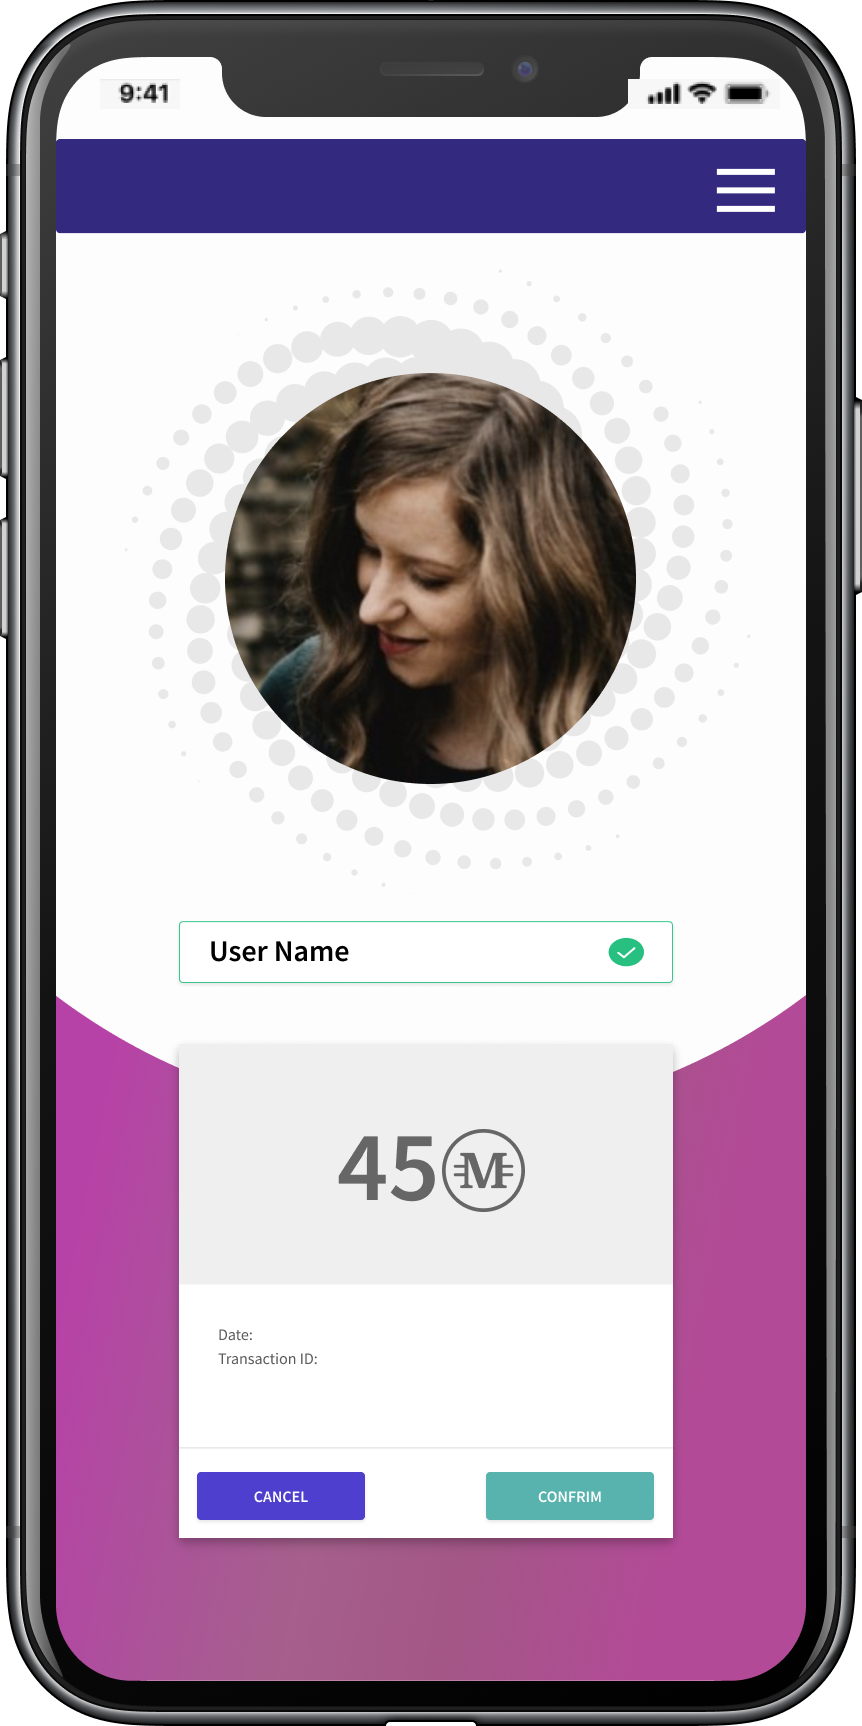
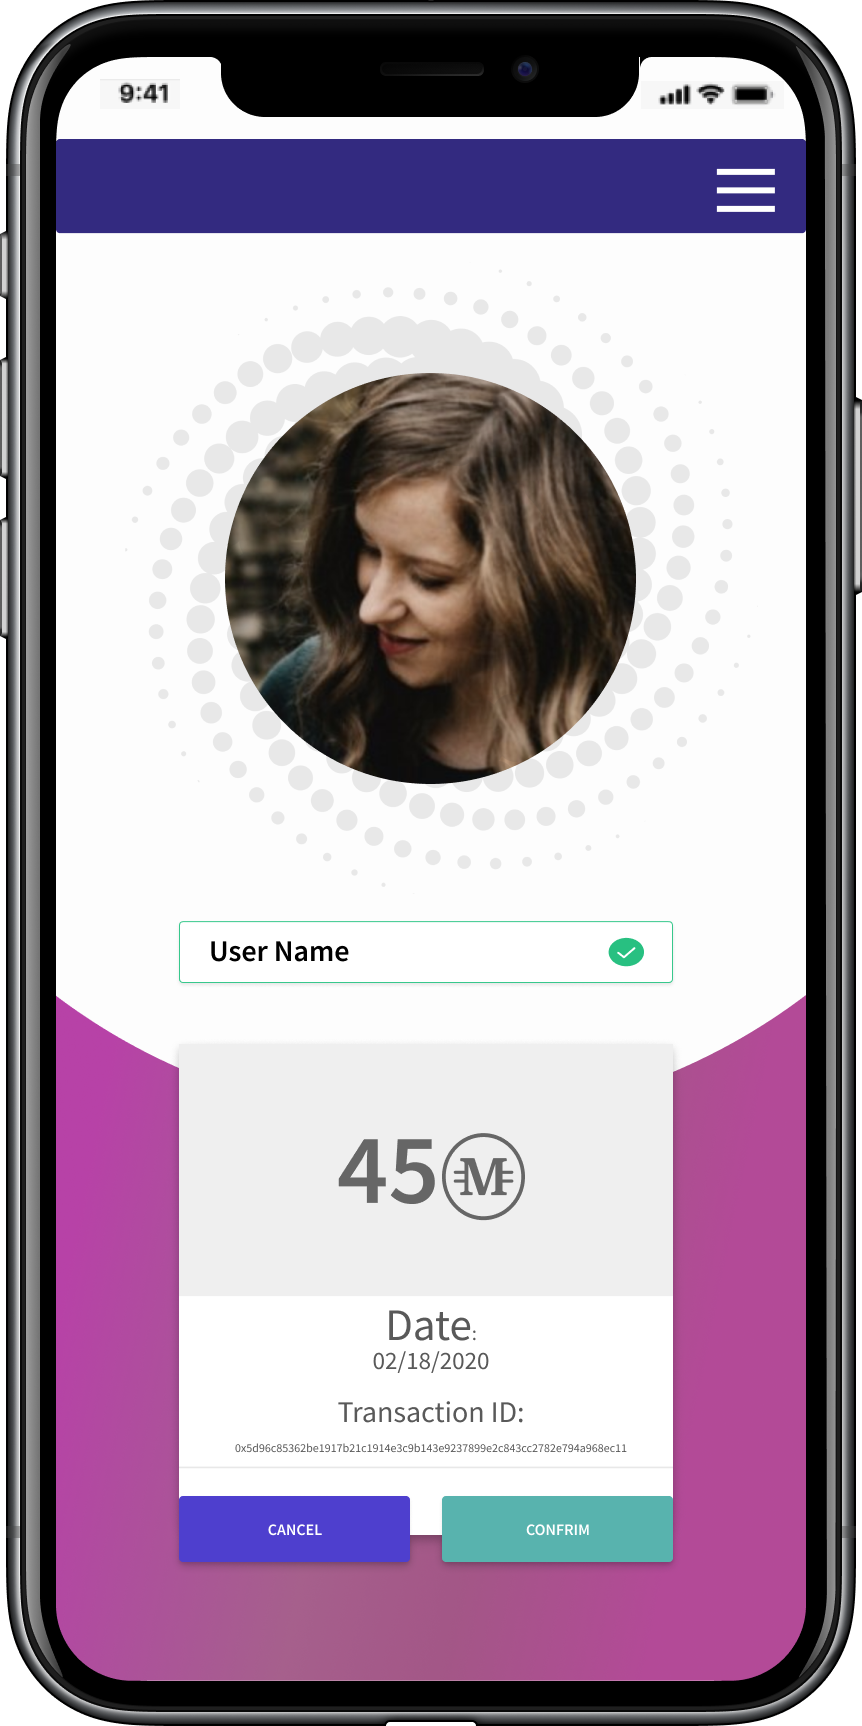
add mobile renderings

diff --git a/src/assets/scss/layout/_bg.scss b/src/assets/scss/layout/_bg.scss
@@ -6,63 +6,71 @@
 
 /* BG */
 
-	#bg {
-		@include vendor('transform', 'scale(1.0)');
-		-webkit-backface-visibility: hidden;
-		position: fixed;
-		top: 0;
-		left: 0;
-		width: 100%;
-		height: 100vh;
-		z-index: 1;
+#bg {
+  @include vendor('transform', 'scale(1.0)');
+  -webkit-backface-visibility: hidden;
+  position: fixed;
+  top: 0;
+  left: 0;
+  width: 100%;
+  height: 100vh;
+  z-index: 1;
 
-		&:before, &:after {
-			content: '';
-			display: block;
-			position: absolute;
-			top: 0;
-			left: 0;
-			width: 100%;
-			height: 100%;
-		}
+  &:before,
+  &:after {
+    content: '';
+    display: block;
+    position: absolute;
+    top: 0;
+    left: 0;
+    width: 100%;
+    height: 100%;
+  }
 
-		&:before {
-			@include vendor('transition', 'background-color #{_duration(bg)} ease-in-out');
-			@include vendor('transition-delay', '#{_duration(intro)}');
-			background-image:		linear-gradient(to top, #{_palette(bg-overlay)}, #{_palette(bg-overlay)}),
-									url('../../images/overlay.png');
-			background-size:		auto,
-									256px 256px;
-			background-position:	center,
-									center;
-			background-repeat:		no-repeat,
-									repeat;
-			z-index: 2;
-		}
+  &:before {
+    @include vendor(
+      'transition',
+      'background-color #{_duration(bg)} ease-in-out'
+    );
+    @include vendor('transition-delay', '#{_duration(intro)}');
+    background-image: linear-gradient(
+        to top,
+        #{_palette(bg-overlay)},
+        #{_palette(bg-overlay)}
+      ),
+      url('../../images/overlay.png');
+    background-size: auto, 256px 256px;
+    background-position: center, center;
+    background-repeat: no-repeat, repeat;
+    z-index: 2;
+  }
 
-		&:after {
-			@include vendor('transform', 'scale(1.125)');
-			@include vendor('transition', (
-				'transform #{_duration(article)} ease-in-out',
-				'filter #{_duration(article)} ease-in-out'
-			));
-			background-image:		url('../../images/g_gb.gif');
-			background-position:	center;
-			background-size:		cover;
-			background-repeat:		no-repeat;
-			z-index: 1;
-		}
+  &:after {
+    @include vendor('transform', 'scale(1.125)');
+    @include vendor(
+      'transition',
+      (
+        'transform #{_duration(article)} ease-in-out',
+        'filter #{_duration(article)} ease-in-out'
+      )
+    );
+    // background-image:		url('../../images/g_gb.gif');
+    background-position: center;
+    background-size: cover;
+    background-repeat: no-repeat;
+    z-index: 1;
+  }
 
-		.body.is-article-visible & {
-			&:after {
-				@include vendor('transform', 'scale(1.0825)');
-				@include vendor('filter', 'blur(0.2rem)');
-			}
-		}
+  .body.is-article-visible & {
+    &:after {
+      @include vendor('transform', 'scale(1.0825)');
+      @include vendor('filter', 'blur(0.2rem)');
+    }
+  }
 
-		.body.is-loading & {
-			&:before {
-				background-color:	_palette(bg-alt);
-			}
-		}
-	}
+  .body.is-loading & {
+    &:before {
+      background-color: _palette(bg-alt);
+    }
+  }
+}

diff --git a/src/components/Main.js b/src/components/Main.js
@@ -1,5 +1,6 @@
 import React from 'react'
 import PropTypes from 'prop-types'
+// import { Header } from 'Header.js'
 // import pic01 from '../images/pic01.jpg'
 // import pic02 from '../images/pic02.jpg'
 // import pic03 from '../images/pic03.jpg'
@@ -20,6 +21,7 @@ import rKey from '../images/verify_key.png'
 import rDash from '../images/r_dashboard.png'
 import rIntro from '../images/r_intro.png'
 import r_mobile from '../images/r_mobile.png'
+import r_mobile_l from '../images/r_mobile_l.png'
 class Main extends React.Component {
   render() {
     let close = (
@@ -44,6 +46,8 @@ class Main extends React.Component {
           }`}
           style={{ display: 'none' }}
         >
+          {' '}
+          {/* <Header></Header> */}
           <h2 className="major">About</h2>
           <span className="image main">
             <img src={pic04} alt="" />
@@ -285,11 +289,12 @@ class Main extends React.Component {
               {/* <img src={r_mobile} alt="" /> */}
             </span>
           </div>
-          <div className="mobile_container">
-            <span className="image main mobile">
+          {/* <div className="mobile_container">
+            <div className="image main mobile">
               <img src={r_mobile} alt="" />
-            </span>
-          </div>
+              <img src={r_mobile_l} alt="" />
+            </div>
+          </div> */}
           {close}
         </article>
         <article

diff --git a/src/assets/scss/components/_image.scss b/src/assets/scss/components/_image.scss
@@ -87,17 +87,22 @@
 }
 
 .mobile_container {
-  //   border: 5px solid blue;
-  width: 350px;
-  //   height: 300;
+  border: 5px solid red;
   display: flex;
-  justify-content: center;
-  margin-left: 25%;
+  flex-wrap: wrap;
+  //   border: 5px solid blue;
+  width: 100%;
+  //   height: 300;
+  //   margin-left: 30%;
 }
 
 .mobile {
+  width: 45%;
+  border: 3px solid lime;
+  display: flex;
+  flex-wrap: wrap;
+
   //   border: 1px solid red;
-  width: 100%;
-  height: auto;
+  //   height: auto;
   //   margin-left: 50%;
 }
